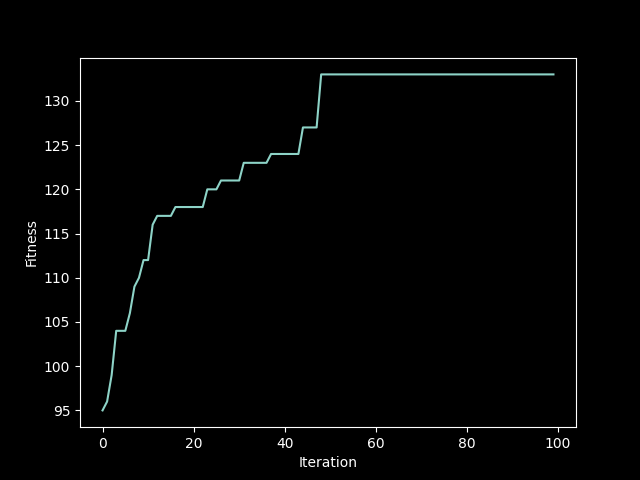
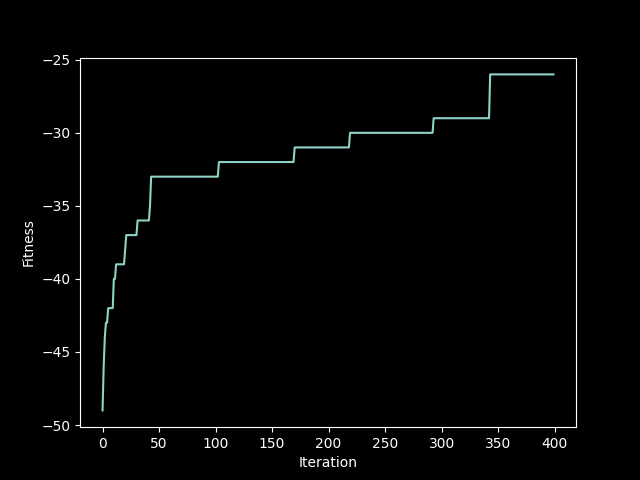
first rule on green space balance amount

diff --git a/Genetic_City/fitnessFunctions.py b/Genetic_City/fitnessFunctions.py
@@ -18,6 +18,7 @@ from matplotlib.pyplot import grid
 import numpy as np
 import scipy.spatial
 from parameters import *
+from rules import *
 from progressbar import printProgressBar #Import progress bar function.
 
 
@@ -32,7 +33,7 @@ def manhattan_table(block_matrix):
     return scipy.spatial.distance_matrix(block_matrix,block_matrix,p=1)
 
 
-def fitness_func(solution, solution_idx):
+def fitness_func(solution, distance_table):
     # Calculating the fitness value of each solution in the current population.
     # The fitness function calulates the sum of products between each input and its corresponding weight.
     
@@ -40,7 +41,7 @@ def fitness_func(solution, solution_idx):
     
     #The fitness function will return a greater value if number of parks increases. Should converge into more parks.
     unique, counts = np.unique(solution,return_index=False, return_inverse=False, return_counts=True, axis=None)
-    fitness = counts[0]
+    fitness = green_space_balance_amount(counts[0],np.shape(solution)[0],percentage_of_parks)
     return fitness
 
 def evaluate_blocks(block_to_ev, population_size, distance_table): #Complete evaluation function for looping through every individual of a population.

diff --git a/Genetic_City/main.py b/Genetic_City/main.py
@@ -115,16 +115,15 @@ for column_blocks in range(city_size):
 
 
 
-print("Final blocks: ")
-print(final_blocks)
-#fitnessAndCityPlot(best_outputs,final_blocks,cmap)
+unique, counts = np.unique(final_blocks,return_index=False, return_inverse=False, return_counts=True, axis=None)
+print("Number of parks: ")
+print(counts[0])
+print("Number of elements: ")
+print(np.size(final_blocks))
+print("Final proportion: ")
+print(counts[0]/np.size(final_blocks))
 matrix_with_roads = include_roads(final_blocks)
-print("Matrix with Roads: ")
-print(matrix_with_roads)
 matrix_with_roads_amplified = matrix_for_visualization(matrix_with_roads)
-print("Matrix with Roads Amplified: ")
-print(matrix_with_roads_amplified)
 if visualizations: np.savetxt('C:/Users/adminlocal/Documents/WorkspacesPython/Genetic-City/Genetic_City/plotting/block'+'solution_amplified'+'.txt',matrix_with_roads_amplified,delimiter=',')
 grid_plot(np.shape(matrix_with_roads_amplified)[0], cmap)
 fitness_plot(best_outputs)
-#grid_plot(block_size, city_size)

diff --git a/Genetic_City/learningJuan.py b/Genetic_City/learningJuan.py
@@ -1,0 +1,30 @@
+# Python3 code to demonstrate working of
+# Group Adjacent Coordinates
+# Using product() + groupby() + list comprehension
+from itertools import groupby, product
+ 
+def Manhattan(tup1, tup2):
+    return abs(tup1[0] - tup2[0]) + abs(tup1[1] - tup2[1])
+ 
+# initializing list
+test_list = [(4, 4), (6, 4), (7, 8), (11, 11),
+                     (7, 7), (11, 12), (5, 4)]
+ 
+# printing original list
+print("The original list is : " + str(test_list))
+ 
+# Group Adjacent Coordinates
+# Using product() + groupby() + list comprehension
+man_tups = [sorted(sub) for sub in product(test_list, repeat = 2)
+                                         if Manhattan(*sub) == 1]
+ 
+res_dict = {ele: {ele} for ele in test_list}
+for tup1, tup2 in man_tups:
+    res_dict[tup1] |= res_dict[tup2]
+    res_dict[tup2] = res_dict[tup1]
+ 
+res = [[*next(val)] for key, val in groupby(
+        sorted(res_dict.values(), key = id), id)]
+ 
+# printing result
+print("The grouped elements : " + str(res))

diff --git a/Genetic_City/parameters.py b/Genetic_City/parameters.py
@@ -24,7 +24,7 @@ from matplotlib.colors import ListedColormap
 
 population_size = 100#1000 # Number of solutions in the population.
 num_parents_mating = 20#100 # Number of solutions to be selected as parents in the mating pool. Must be < population_size
-num_generations = 100#400 # Number of generations.
+num_generations = 400#400 # Number of generations.
 prob_mutation = .3 # Must be between 0 and 1
 #TODO: review as prop_crossover and crossover_value should tell the same thing
 #prop_crossover = .9 # The point which will define the amount of each parent constituting the offspring
@@ -36,3 +36,6 @@ cmap = ListedColormap(["green","blue","orange","grey"])
 #cmap = ListedColormap(["green","blue","orange"])
 visualizations = True
 
+
+'''PARAMETERS FOR RULES'''
+percentage_of_parks = 90

diff --git a/Genetic_City/rules.py b/Genetic_City/rules.py
@@ -1,6 +1,13 @@
 def accesibility():
     return
-def green_space_balance():
+def green_space_balance_amount(no_parks,no_blocks,percentage_obj):
+    percentage = no_parks/no_blocks*100
+    if percentage < percentage_obj:
+        fitness = percentage-percentage_obj
+    if percentage > percentage_obj:
+        fitness = percentage_obj-percentage
+    return fitness
+def green_space_balance_width():
     return
 def diversity_of_housing():
     return
